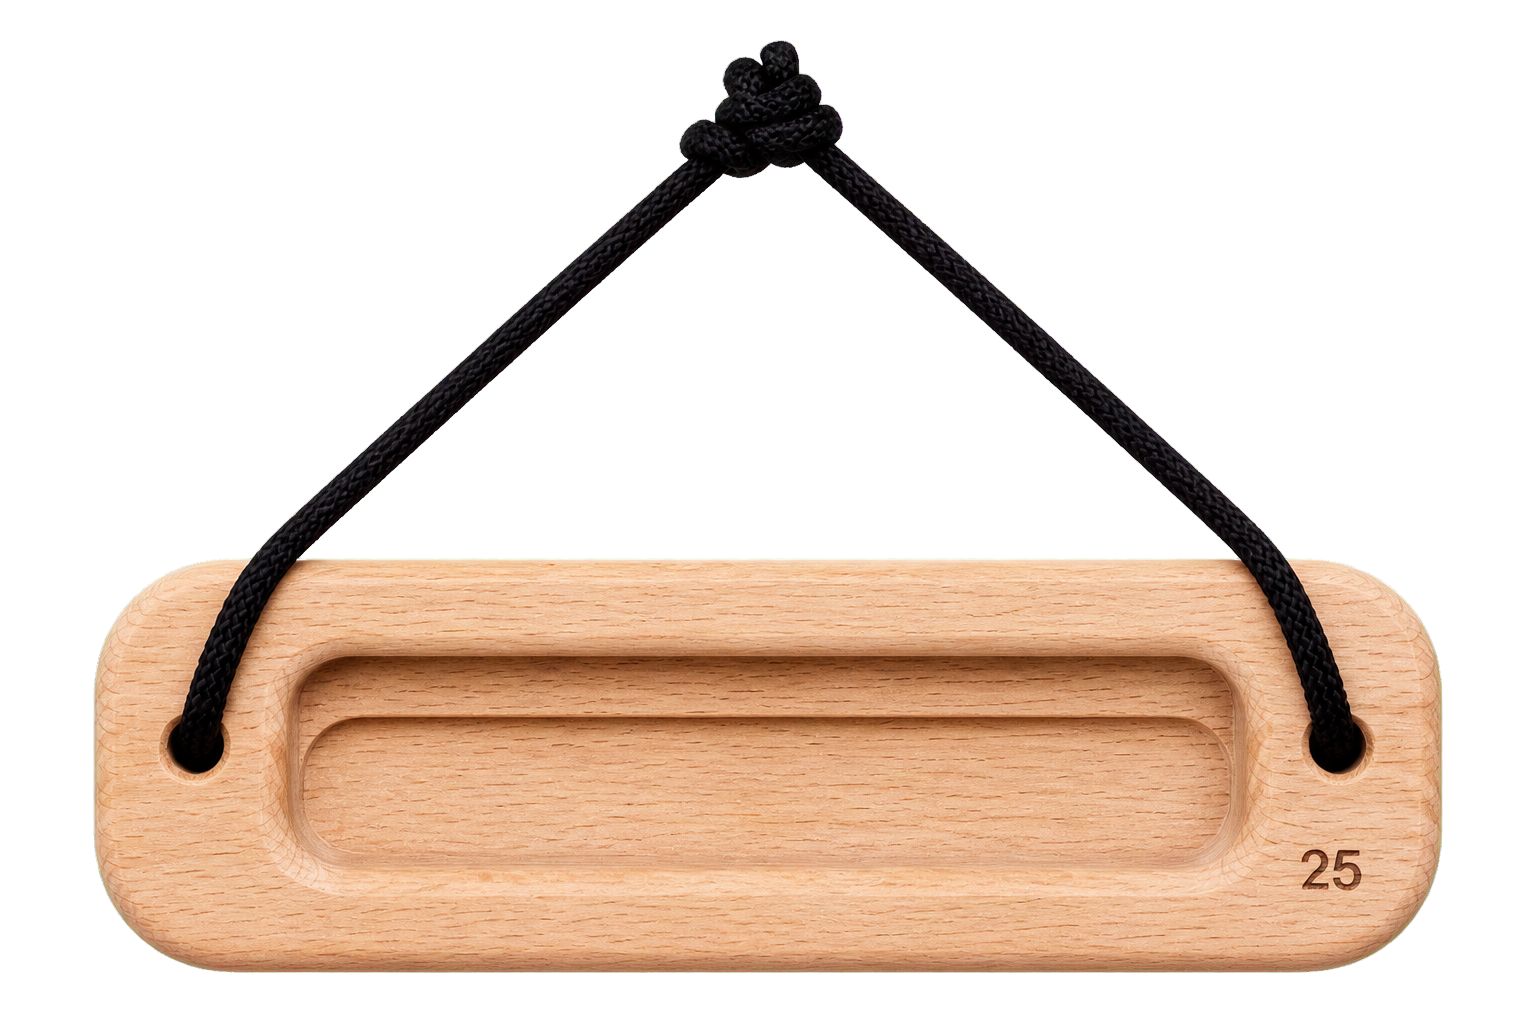
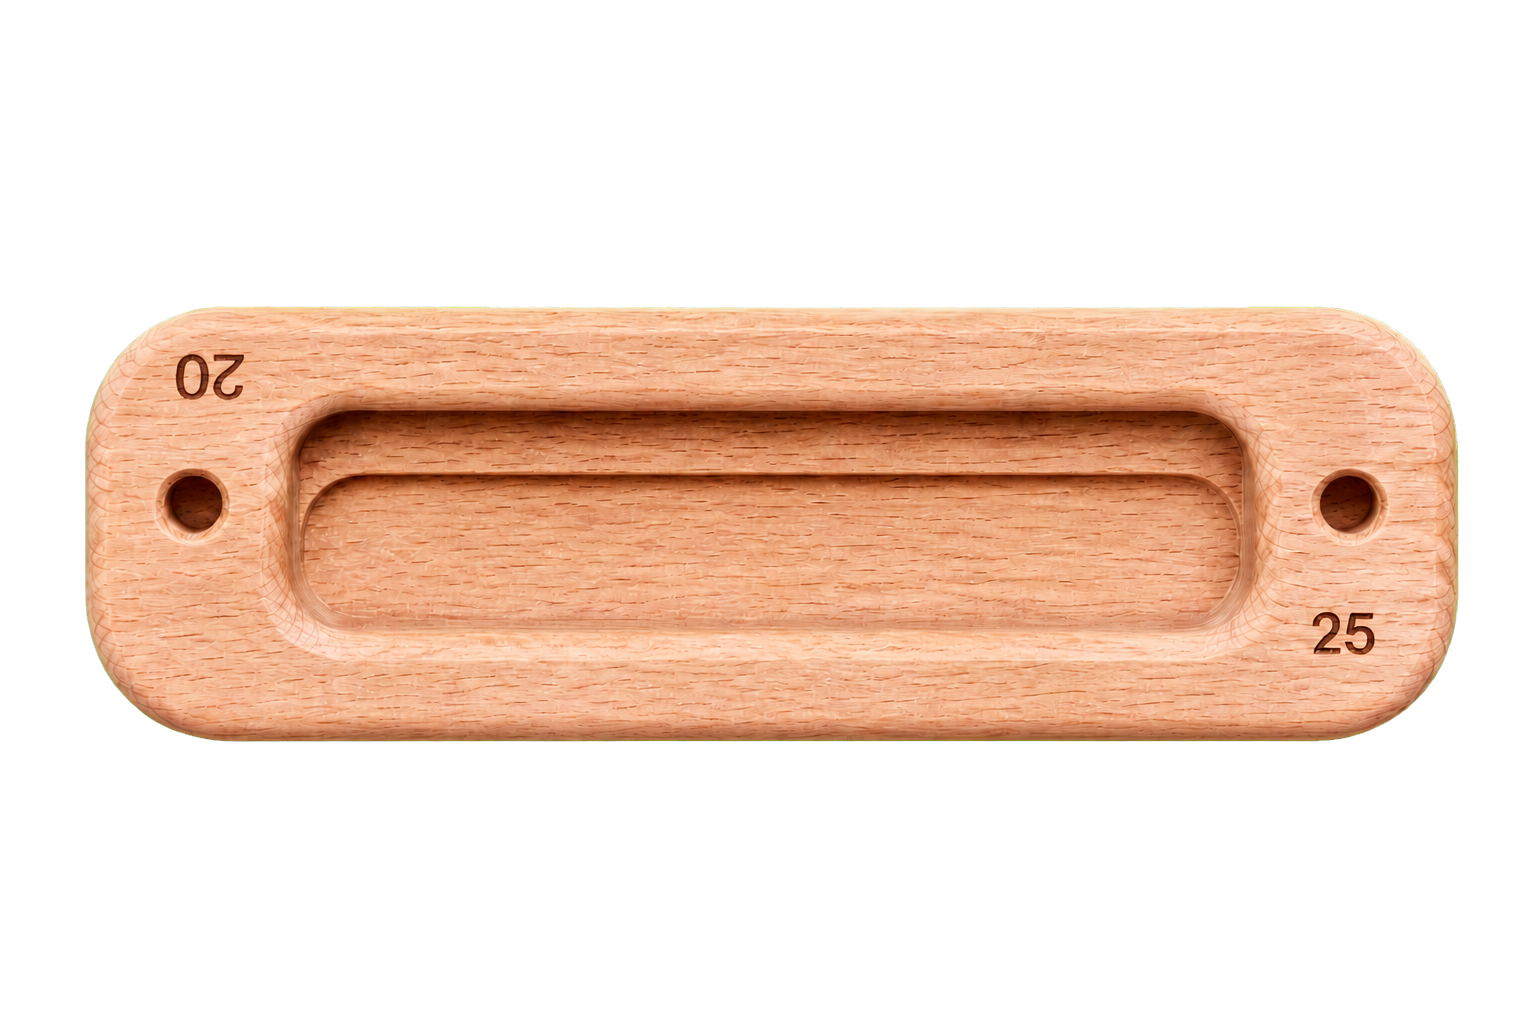
Add approved NUG pivot renders

diff --git a/docs/source-audits/2026-09-04-frictitious-nug-pivot.md b/docs/source-audits/2026-09-04-frictitious-nug-pivot.md
@@ -1,0 +1,31 @@
+# Frictitious NUG pivot presentation audit
+
+Reviewed 2026-09-04 against the current [Frictitious NUG product page](https://frictitiousclimbing.com/products/the-nug) and its first-party product imagery. The manufacturer evidence establishes one portable board with two physical recessed faces: a 20/25 mm face and an 8/13 mm face. Each face is represented by one transparent canonical raster; the opposite usable edge is a metadata-only 180-degree rotation of that same raster.
+
+The two canonical rasters were generated as head-on, cord-free catalog art with the exact corresponding manufacturer packshot and the locked first-party reference set supplied to the generator. Dynamic black cord is rendered separately from the face art. The board body and attachment points rotate together while the pull point remains world-up, keeping both strands tensioned under gravity.
+
+## Face and position mapping
+
+| Presentation | Canonical physical face | Clock-face rotation | Available holds |
+| --- | --- | ---: | --- |
+| `primary` | 20/25 mm face (`assets/primary.png`) | 0° | `edge-25`, `jug-40`, `pinch-60` |
+| `primary-inverted` | source `primary` | 180° | `edge-20`, `jug-40`, `pinch-60` |
+| `reverse` | 8/13 mm face (`assets/reverse.png`) | 0° | `edge-13` |
+| `reverse-inverted` | source `reverse` | 180° | `edge-8` |
+
[1 lines of base64/hex data omitted]
+
+## Approved standalone renders
+
+| Position | Review asset | SHA-256 |
+| --- | --- | --- |
[4 lines of base64/hex data omitted]
+
+All four approved files are standalone 1200 × 1464 RGBA renders with transparent backgrounds, complete support loops, and transparent margins on every side. They are not app screenshots or contact sheets.
+
+## Geometry boundary
+
+This migration does not alter any canonical hold path. In particular, `jug-40` and `pinch-60` retain their previously manually authored geometry; their alignment remains a known follow-up caveat and was not inferred, regenerated, or re-authored from these images. The image approval covers the canonical face art, physical-face mapping, rotations, and tensioned-cord presentation only.
